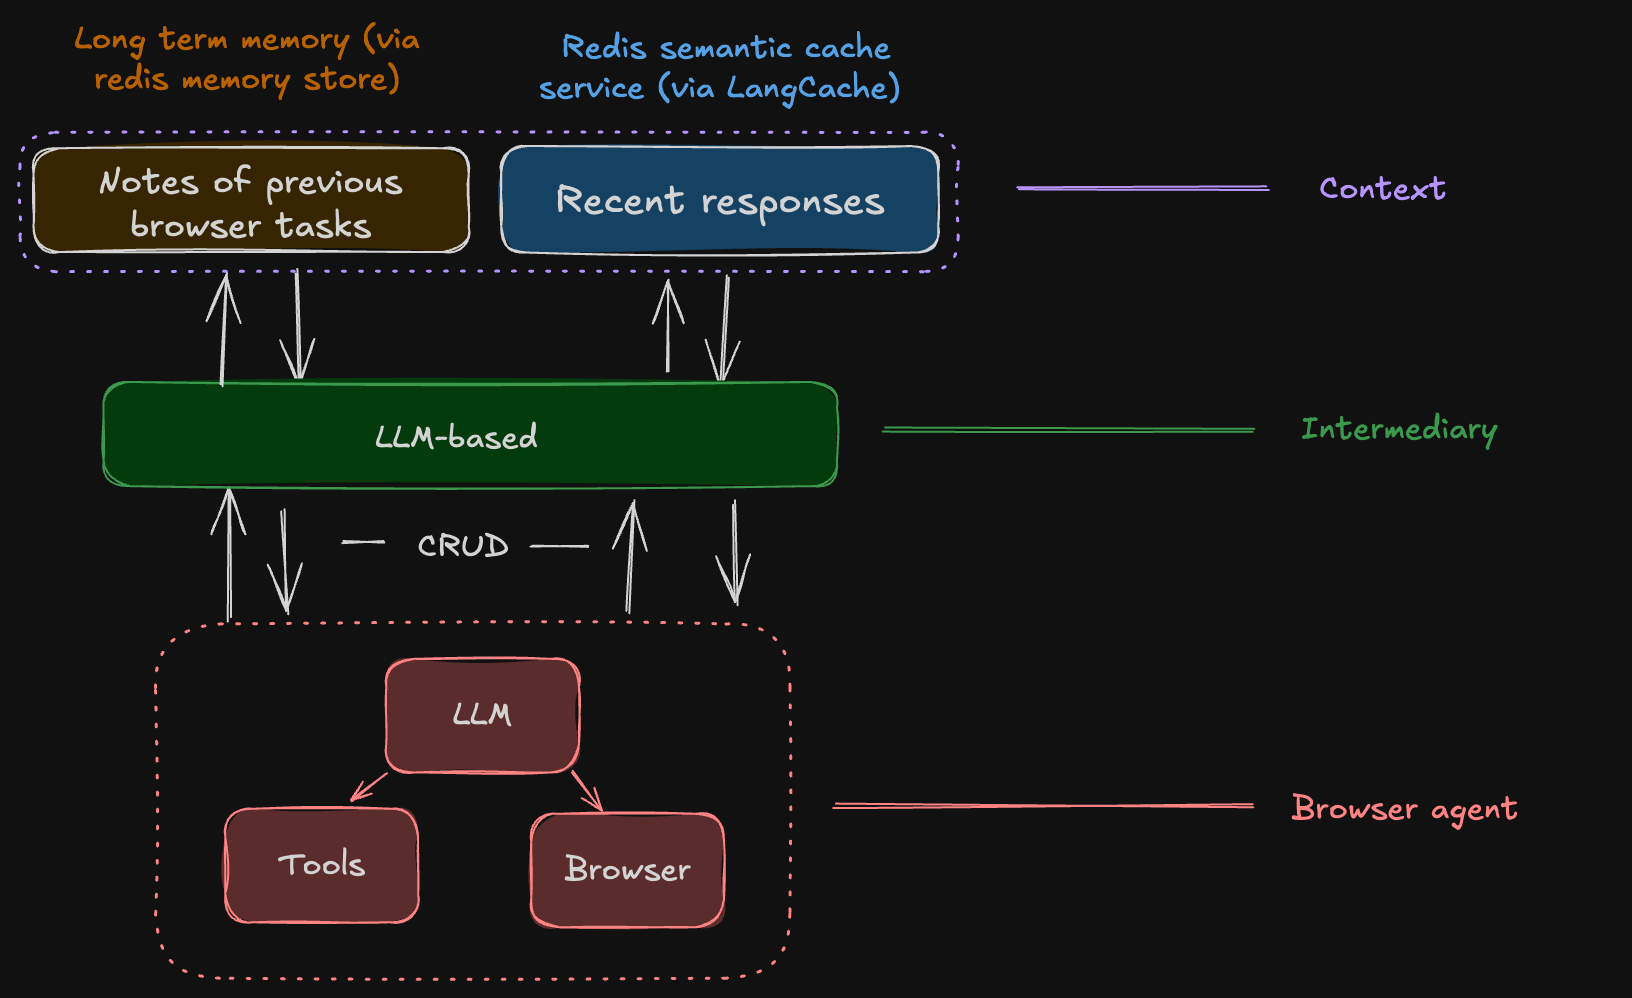
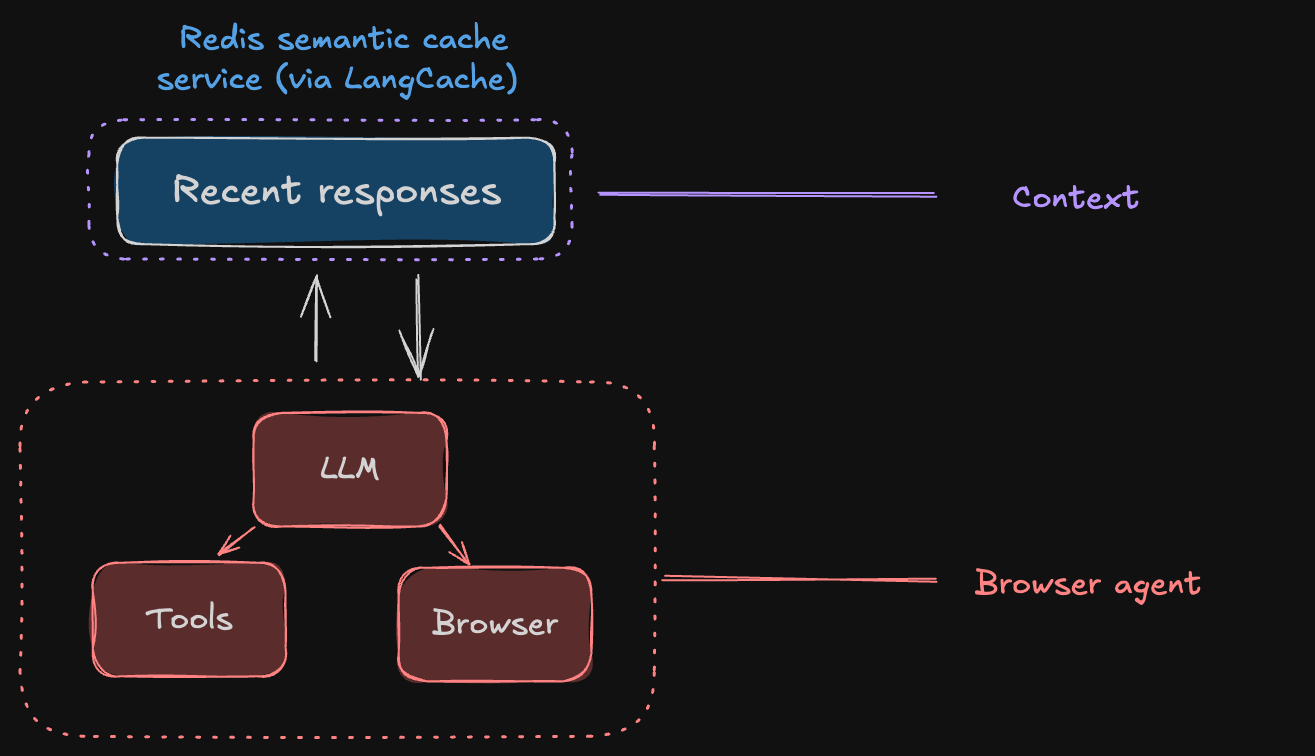
docs: architecture + dependencies

diff --git a/README.md b/README.md
@@ -1,14 +1,12 @@
 # BrowserBrain AI
 
-> **2x memory for browser agents**
+> **95x FASTER with cache for browser agent tasks**
 
 Browserbrain AI implements a semantic context caching layer for browser agents.
 
 ## 🎯 Why?
 
-Browser agents have poor context. They struggle with:
-- Limited memory retention across tasks
-- Expensive + long agent hallucinations impose risk for production use
+Browser agents are slow and expensive. They struggle with doing the same task again even though it did in 100 times in a row!?!
 
 ## 🚀 Solution
 
@@ -27,33 +25,15 @@ Our architecture implements a sophisticated three-tier context engineering syste
 
 #### 1. Context Layer
 
-The **Context Layer** provides persistent, intelligent memory storage that transcends simple browser agents.
+The **Context Layer** provides persistent, intelligent memory storage for tasks that transcends simple browser agents.
 
-#### 2. Intermediary Layer
-
-The **Intermediary Layer** acts as the intelligent orchestrator. It decides what should or shouldn't be in long term memory (learned trimming). This layer could be removed and replaced with heuristic trimming (fixed static trimming of context) but recent trends show that LLM-based context engineering is more effective.
-
-#### 3. Browser Agent Layer
+#### 2. Browser Agent Layer
 
 The **Browser Agent Layer** executes tasks autonomously. Browser use package we use can be customised; add built-in tools and custom tools.  
 
-### Technical Components
-
-- **Server** (`/server`): Python backend (using `uv`)
-  - Uses `browser-use` for browser automation
-  - Integrates with Redis for context storage and caching
-  - Implements RAG-indexed memory for semantic retrieval
-  - Provides LangCache functionality for query trajectory caching
-  - Provides API endpoints for browser agent operations
-
-- **Client** (`/client`): Next.js frontend
-  - Web interface for interacting with browser agents
-  - Visualize context and memory management
-  - Real-time interaction with the browser automation API
-
 ## 🛠 Tech Stack
 
-- **Backend**: Python 3.12+, FastAPI, Browser Use, Redis, uvicorn
+- **Backend**: Python 3.12+, FastAPI, Browser Use, Redis, uvicorn, Langcache
 - **Frontend**: Next.js 16, React 19, TypeScript, Tailwind CSS
 - **Infrastructure**: Docker, Docker Compose
 - **Package Management**: `uv` for Python dependencies
@@ -65,7 +45,29 @@ The **Browser Agent Layer** executes tasks autonomously. Browser use package we 
 - Docker & Docker Compose
 - Set up environment variables
 
+### Installing Dependencies
+
+#### Backend (Python)
+
+Navigate to the server directory and install Python dependencies using `uv`:
+
+```bash
+cd server
+uv sync
+```
+
+#### Frontend (Next.js)
+
+Navigate to the client directory and install Node dependencies:
+
+```bash
+cd client
+npm install
+```
+
 ### Running the Project
+
+
 
 Start all services:
 ```bash
